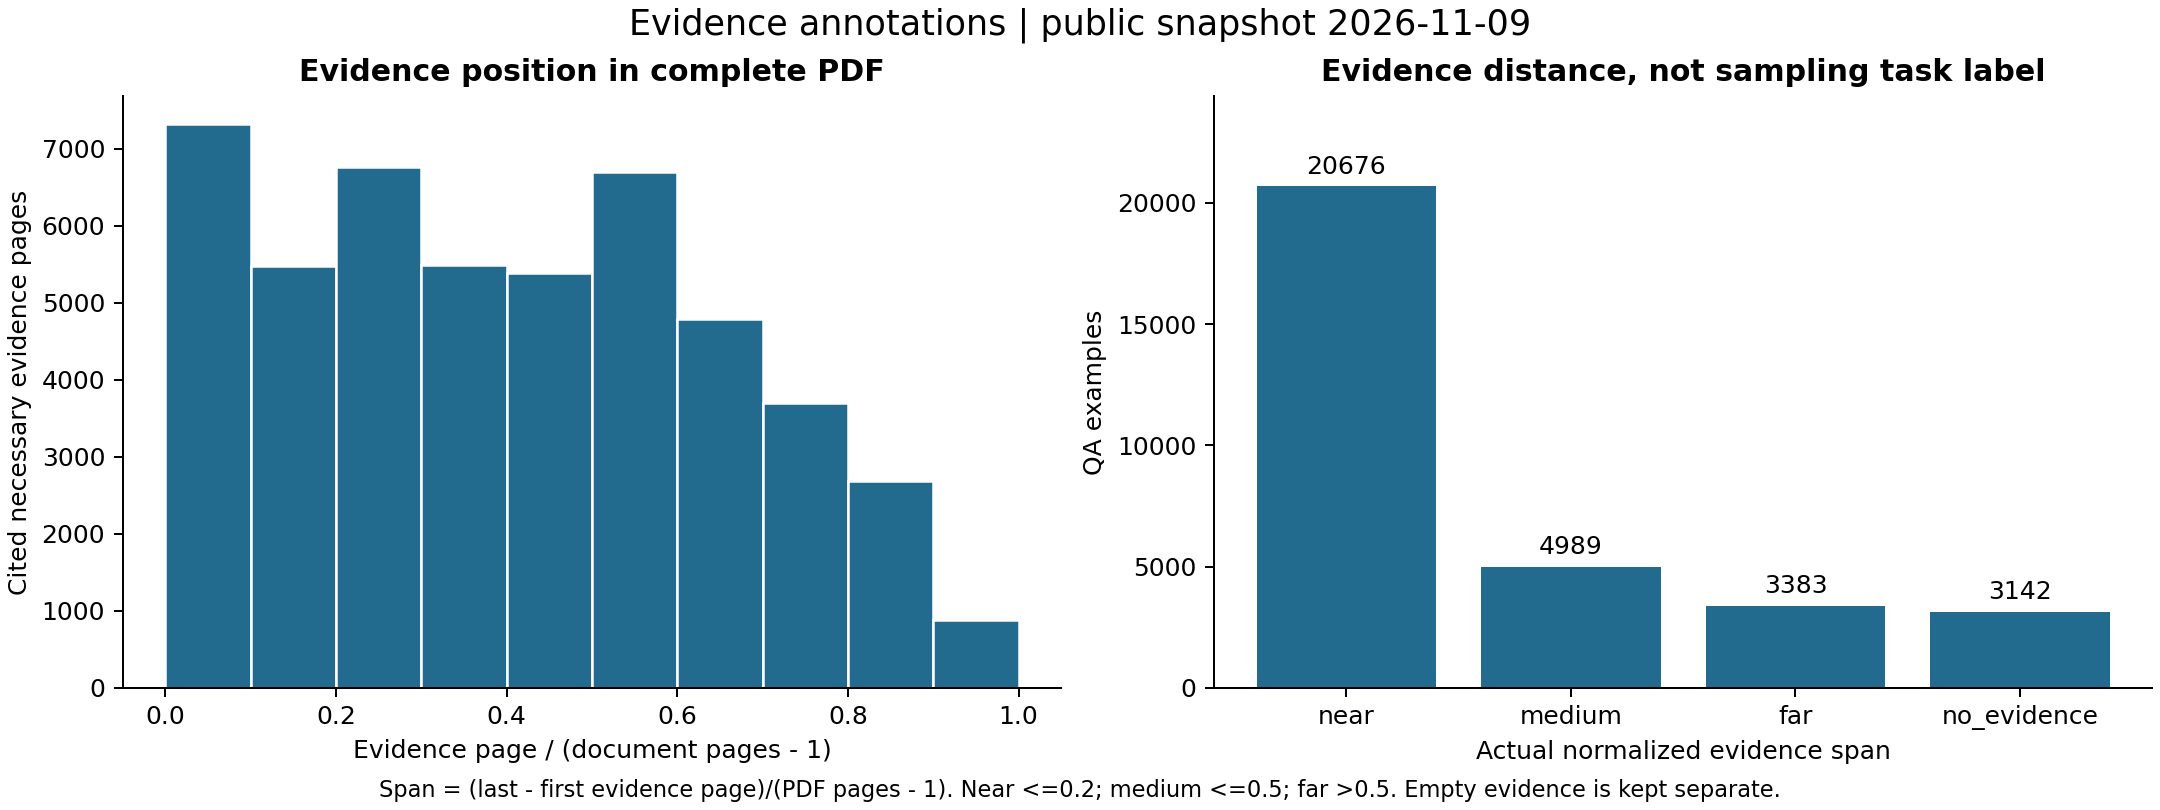
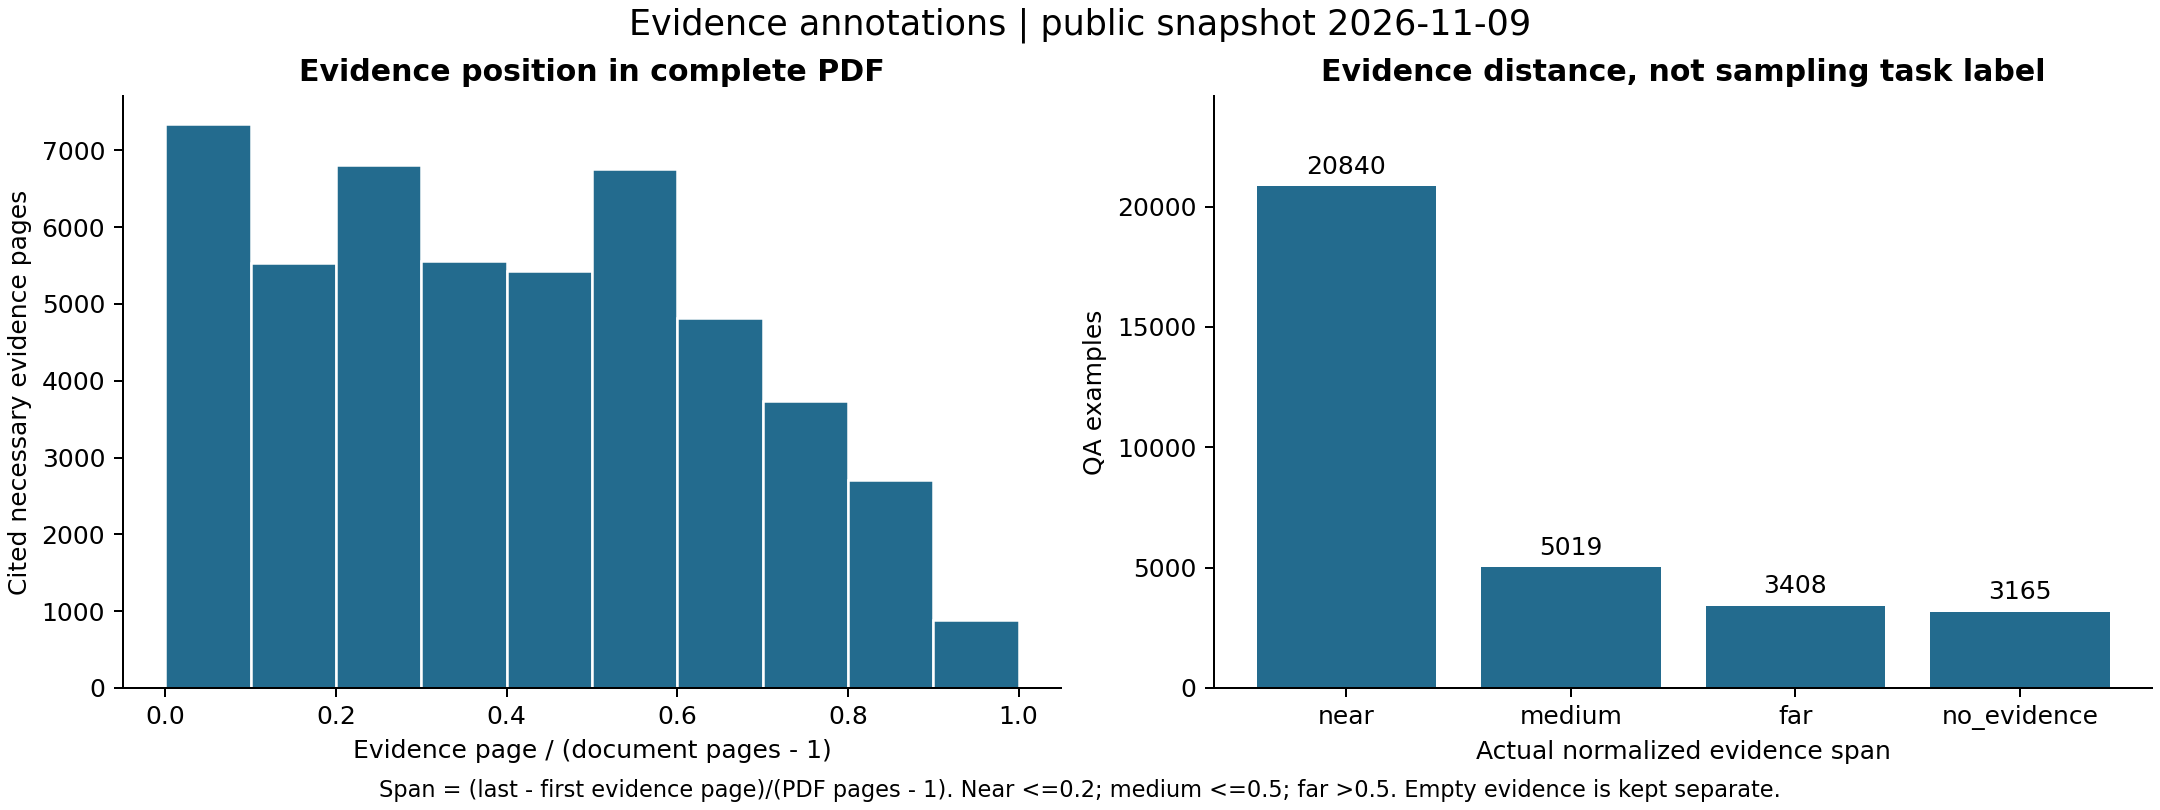
Update public corpus statistics to 1.986B measured tokens

diff --git a/docs/public_dataset.md b/docs/public_dataset.md
@@ -13,32 +13,33 @@ This page describes the admitted public snapshot identified below. It is a separ
 The manuscript defines binary prefixes (K=1024, B=2^30). Public tables use decimal K=1,000 and B=1,000,000,000; the >=100Ki statistic uses 102,400 to match the paper threshold. Exact raw counts and per-document labels are published with the dataset.
 
 <!-- PUBLIC_CORPUS_STATS_START -->
-**Public snapshot (2026-11-09): 32,190 QA examples, 4,327 source PDFs, 104,468 unique page images, and 1,971,031,106 estimated training tokens (approximately 1.971B).**
+**Public snapshot (2026-11-09): 32,432 QA examples, 4,455 source PDFs, 107,563 unique page images, and 1,985,952,667 estimated training tokens (approximately 1.986B).**
 
-[This published snapshot](https://huggingface.co/datasets/ZhaoweiWang/MMProLong-Data-Public/tree/5a5e171ec5af2a8f34f8327f09f45787862b26a6); [latest data](https://huggingface.co/datasets/ZhaoweiWang/MMProLong-Data-Public).
+[This published snapshot](https://huggingface.co/datasets/ZhaoweiWang/MMProLong-Data-Public/tree/db9af7d1603b8c4b0d23664283e6b696d50ae07a); [latest data](https://huggingface.co/datasets/ZhaoweiWang/MMProLong-Data-Public).
 
 ### Corpus scale
 
 | Statistic | Public snapshot value |
 | --- | --- |
-| Admitted unique PDFs | 4,327 |
+| Admitted unique PDFs | 4,455 |
 | Document family | Public research papers |
-| Unique rendered page images | 104,468 |
+| Unique rendered page images | 107,563 |
 | Document pages: mean / median | 24.14 / 22 |
 | Document pages: range / 5th-95th percentile | 14-50 / 14-42 |
-| Admitted QA examples | 32,190 |
-| Estimated training tokens | 1,971,031,106 (1.971B) |
-| Per-QA tokens: mean / median | 61.231K / 54.790K |
+| Admitted QA examples | 32,432 |
+| Estimated training tokens | 1,985,952,667 (1.986B) |
+| Per-QA tokens: mean / median | 61.234K / 54.796K |
 | Observed token range | 33,547-125,503 |
-| At least 100,000 tokens | 2,576 (8.00%) |
-| At least 100Ki = 102,400 tokens (paper threshold) | 2,162 (6.72%) |
-| Page references across all QA contexts | 775,703 |
+| At least 100,000 tokens | 2,585 (7.97%) |
+| At least 100Ki = 102,400 tokens (paper threshold) | 2,171 (6.69%) |
+| Page references across all QA contexts | 781,580 |
 
 ### Document sources
 
 | Source | Unique documents |
 | --- | --- |
-| arxiv | 4,327 |
+| arxiv | 4,386 |
+| plos | 69 |
 
 Tokens are the stored Qwen2.5-VL serialized-sample estimate, including full page-image context and QA/prompt text. A PDF used by several questions contributes its context repeatedly to the training-token total. This is not a count of unique-text tokens or billed API tokens. Page images are physically stored once per document.
 
@@ -48,12 +49,12 @@ Tokens are the stored Qwen2.5-VL serialized-sample estimate, including full page
 
 | Task | QA | Avg. pages | Avg. K tokens | B tokens | Pages | K-token range | >=100Ki |
 | --- | --- | --- | --- | --- | --- | --- | --- |
-| `single` | 11,649 | 23.98 | 60.92 | 0.710 | 14-50 | 33.80-125.13 | 6.65% |
-| `multi_local` | 5,794 | 24.07 | 61.24 | 0.355 | 14-50 | 33.85-125.50 | 6.64% |
-| `multi_distributed` | 5,803 | 24.05 | 61.15 | 0.355 | 14-50 | 33.84-125.29 | 6.72% |
-| `reasoning` | 5,802 | 24.07 | 61.12 | 0.355 | 14-50 | 33.55-125.11 | 6.45% |
-| `unanswerable` | 3,142 | 24.71 | 62.74 | 0.197 | 14-50 | 33.79-125.09 | 7.57% |
-| **Total** | 32,190 | 24.10 | 61.23 | 1.971 | 14-50 | 33.55-125.50 | 6.72% |
+| `single` | 11,741 | 23.98 | 60.92 | 0.715 | 14-50 | 33.80-125.13 | 6.63% |
+| `multi_local` | 5,841 | 24.06 | 61.22 | 0.358 | 14-50 | 33.85-125.50 | 6.59% |
+| `multi_distributed` | 5,847 | 24.06 | 61.16 | 0.358 | 14-50 | 33.84-125.29 | 6.70% |
+| `reasoning` | 5,838 | 24.07 | 61.13 | 0.357 | 14-50 | 33.55-125.11 | 6.42% |
+| `unanswerable` | 3,165 | 24.72 | 62.77 | 0.199 | 14-50 | 33.79-125.09 | 7.58% |
+| **Total** | 32,432 | 24.10 | 61.23 | 1.986 | 14-50 | 33.55-125.50 | 6.69% |
 
 `K = 1,000`, `B = 1,000,000,000`; `100Ki = 102,400` tokens. Average pages in this table are **QA-weighted**, whereas the corpus-scale document average counts each PDF once. The two multi-page rows may be combined for comparison with the paper's broader extraction category. Unanswerable QA is an additional public-data task. Exact values, quantiles, and the combined task grouping are in [`metadata/statistics.json`](https://huggingface.co/datasets/ZhaoweiWang/MMProLong-Data-Public/blob/main/metadata/statistics.json).
 
@@ -63,17 +64,17 @@ Tokens are the stored Qwen2.5-VL serialized-sample estimate, including full page
 
 | Primary domain | Documents | Document share | QA | QA share |
 | --- | --- | --- | --- | --- |
-| Physics | 1,321 | 30.53% | 9,282 | 28.84% |
-| Mathematics | 1,183 | 27.34% | 8,724 | 27.10% |
-| Computer Science | 1,148 | 26.53% | 8,974 | 27.88% |
-| Engineering | 349 | 8.07% | 2,638 | 8.20% |
-| Social Science | 87 | 2.01% | 657 | 2.04% |
-| Economics | 83 | 1.92% | 649 | 2.02% |
-| Medicine | 62 | 1.43% | 505 | 1.57% |
-| Earth Science | 52 | 1.20% | 428 | 1.33% |
-| Biology | 29 | 0.67% | 247 | 0.77% |
+| Physics | 1,321 | 29.65% | 9,282 | 28.62% |
+| Mathematics | 1,221 | 27.41% | 8,799 | 27.13% |
+| Computer Science | 1,164 | 26.13% | 9,001 | 27.75% |
+| Engineering | 350 | 7.86% | 2,640 | 8.14% |
+| Social Science | 95 | 2.13% | 672 | 2.07% |
+| Economics | 83 | 1.86% | 649 | 2.00% |
+| Biology | 76 | 1.71% | 335 | 1.03% |
+| Medicine | 72 | 1.62% | 524 | 1.62% |
+| Earth Science | 59 | 1.32% | 442 | 1.36% |
 | Other | 8 | 0.18% | 56 | 0.17% |
-| Language and Literature | 5 | 0.12% | 30 | 0.09% |
+| Language and Literature | 6 | 0.13% | 32 | 0.10% |
 
 Document and QA shares differ because historical phases generated different numbers of questions per PDF. Domain labels describe the source PDF, not a separate topic inferred for each question.
 
@@ -81,21 +82,21 @@ Document and QA shares differ because historical phases generated different numb
 
 | Answer format | QA | Share |
 | --- | --- | --- |
-| Integer | 4,848 | 15.06% |
-| Float | 1,509 | 4.69% |
-| List | 10,743 | 33.37% |
-| String | 11,948 | 37.12% |
-| Unanswerable | 3,142 | 9.76% |
+| Integer | 4,890 | 15.08% |
+| Float | 1,521 | 4.69% |
+| List | 10,810 | 33.33% |
+| String | 12,046 | 37.14% |
+| Unanswerable | 3,165 | 9.76% |
 
-There are **29,048 answerable** and **3,142 unanswerable** QA examples. The observed necessary-evidence page counts are: 0 pages: 3,142, 1 pages: 14,679, 2 pages: 9,544, 3 pages: 3,866, 4 pages: 959.
+There are **29,267 answerable** and **3,165 unanswerable** QA examples. The observed necessary-evidence page counts are: 0 pages: 3,165, 1 pages: 14,794, 2 pages: 9,610, 3 pages: 3,897, 4 pages: 966.
 
 <details>
 <summary>Observed QA count per source document</summary>
 
 | QA per document | Documents |
 | --- | --- |
-| 1 | 174 |
-| 2 | 1,746 |
+| 1 | 188 |
+| 2 | 1,860 |
 | 6 | 1 |
 | 8 | 1 |
 | 9 | 7 |
@@ -112,19 +113,20 @@ The 20-QA documents belong to the initial pilot; the two-QA limit applies to the
 
 | Recorded method | Documents |
 | --- | --- |
-| majority of full-context generator domain labels | 4,206 |
-| arXiv primary category mapping | 112 |
+| majority of full-context generator domain labels | 4,330 |
+| arXiv primary category mapping | 113 |
 | manual primary-topic classification for validated pilot batches | 9 |
+| Crossref subject-query sampling; provisional until generator topic vote | 3 |
 
 ## Document language
 
 | Estimated document language | Documents | Document share | Associated QA |
 | --- | --- | --- | --- |
-| English (`en`) | 4,322 | 99.884% | 32,150 |
-| Spanish (`es`) | 2 | 0.046% | 14 |
-| French (`fr`) | 1 | 0.023% | 2 |
-| Russian (`ru`) | 1 | 0.023% | 12 |
-| Chinese (`zh`) | 1 | 0.023% | 12 |
+| English (`en`) | 4,450 | 99.888% | 32,392 |
+| Spanish (`es`) | 2 | 0.045% | 14 |
+| French (`fr`) | 1 | 0.022% | 2 |
+| Russian (`ru`) | 1 | 0.022% | 12 |
+| Chinese (`zh`) | 1 | 0.022% | 12 |
 
 Language labels are automatic estimates from sampled embedded PDF text; non-English/uncertain predictions receive a prose-filter recheck. They are not human-verified. Method, sampled pages, scores and recheck provenance are retained with each document.
 
@@ -132,14 +134,14 @@ Language labels are automatic estimates from sampled embedded PDF text; non-Engl
 
 | Recorded generation model | Documents | QA | QA share | B training tokens |
 | --- | --- | --- | --- | --- |
-| `gpt-5.5-2026-04-24` | 2,407 | 28,524 | 88.61% | 1.745 |
-| `gpt-5.6-sol` | 1,920 | 3,666 | 11.39% | 0.226 |
+| `gpt-5.5-2026-04-24` | 2,407 | 28,524 | 87.95% | 1.745 |
+| `gpt-5.6-sol` | 2,048 | 3,908 | 12.05% | 0.241 |
 
 | Phase | Documents | QA | Maximum QA per document |
 | --- | --- | --- | --- |
 | Initial pilot (GPT-5.5) | 4 | 80 | 20 |
 | GPT-5.5 production | 2,403 | 28,444 | 12 |
-| Current GPT-5.6 production | 1,920 | 3,666 | 2 |
+| Current GPT-5.6 production | 2,048 | 3,908 | 2 |
 
 The current snapshot is a **mixed-model historical release**, not an all-GPT-5.6 corpus. Use the `model` field when a model-specific subset is required.
 

diff --git a/README.md b/README.md
@@ -40,7 +40,7 @@ Please check out the [paper](https://arxiv.org/abs/2605.13831) for the study and
 ## 📢 Latest Updates
 
 <!-- PUBLIC_CORPUS_SUMMARY_START -->
-**Public snapshot (2026-11-09): 32,190 QA examples, 4,327 source PDFs, 104,468 unique page images, and 1,971,031,106 estimated training tokens (approximately 1.971B).**
+**Public snapshot (2026-11-09): 32,432 QA examples, 4,455 source PDFs, 107,563 unique page images, and 1,985,952,667 estimated training tokens (approximately 1.986B).**
 
 [Dataset](https://huggingface.co/datasets/ZhaoweiWang/MMProLong-Data-Public) | [Statistics](docs/public_dataset.md)
 <!-- PUBLIC_CORPUS_SUMMARY_END -->
